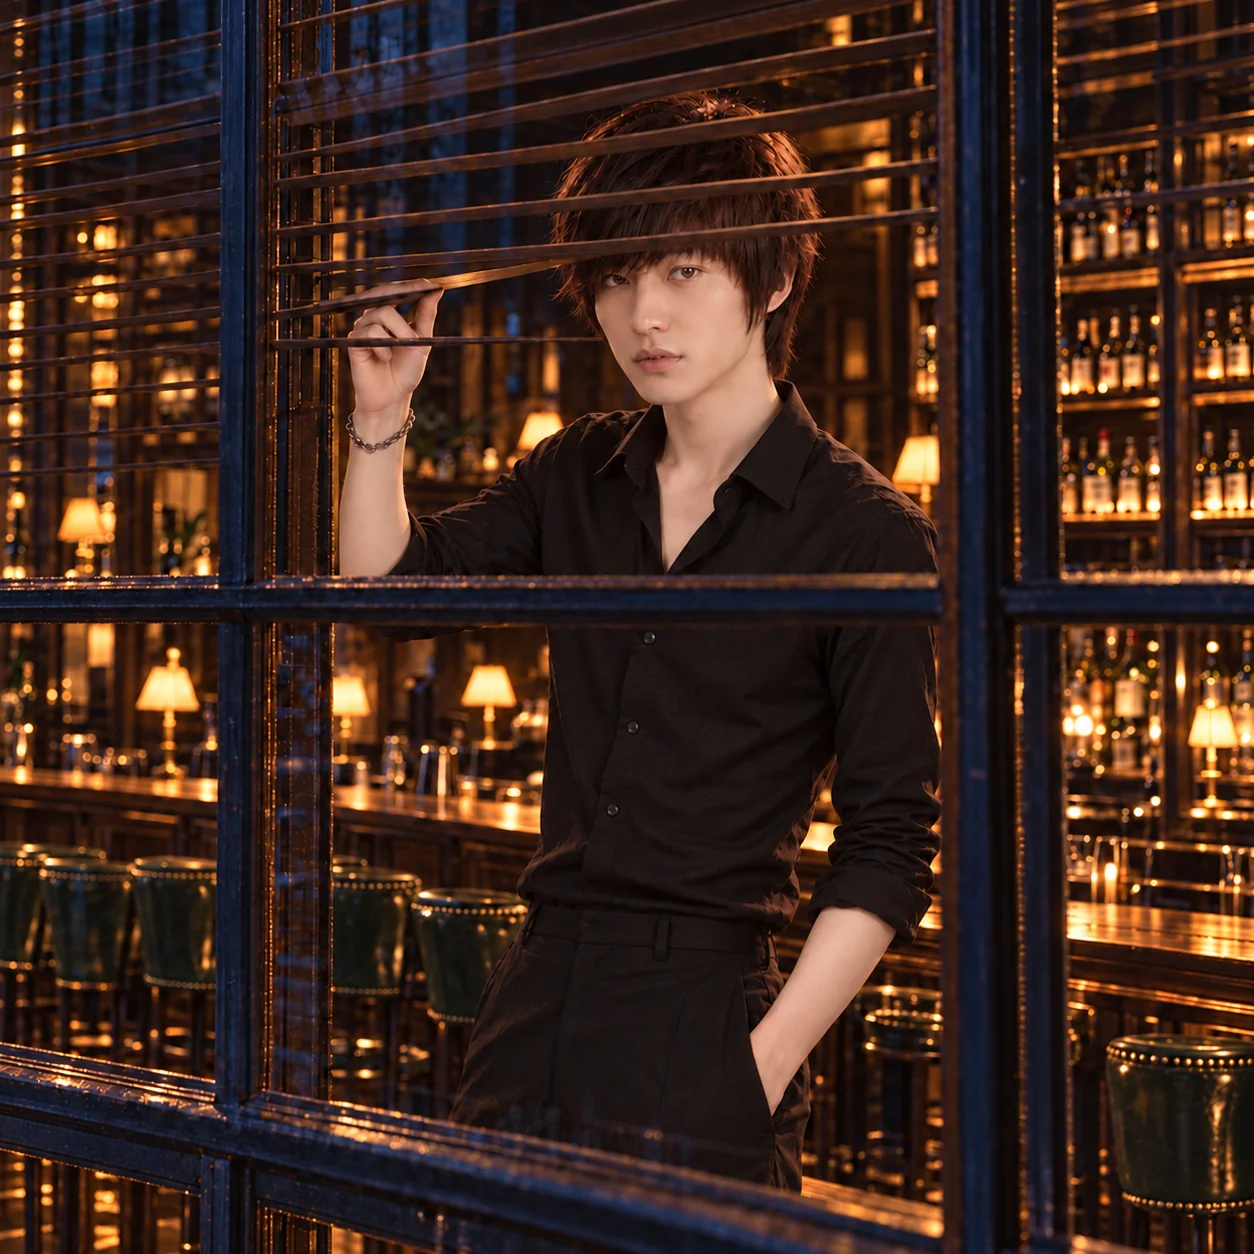
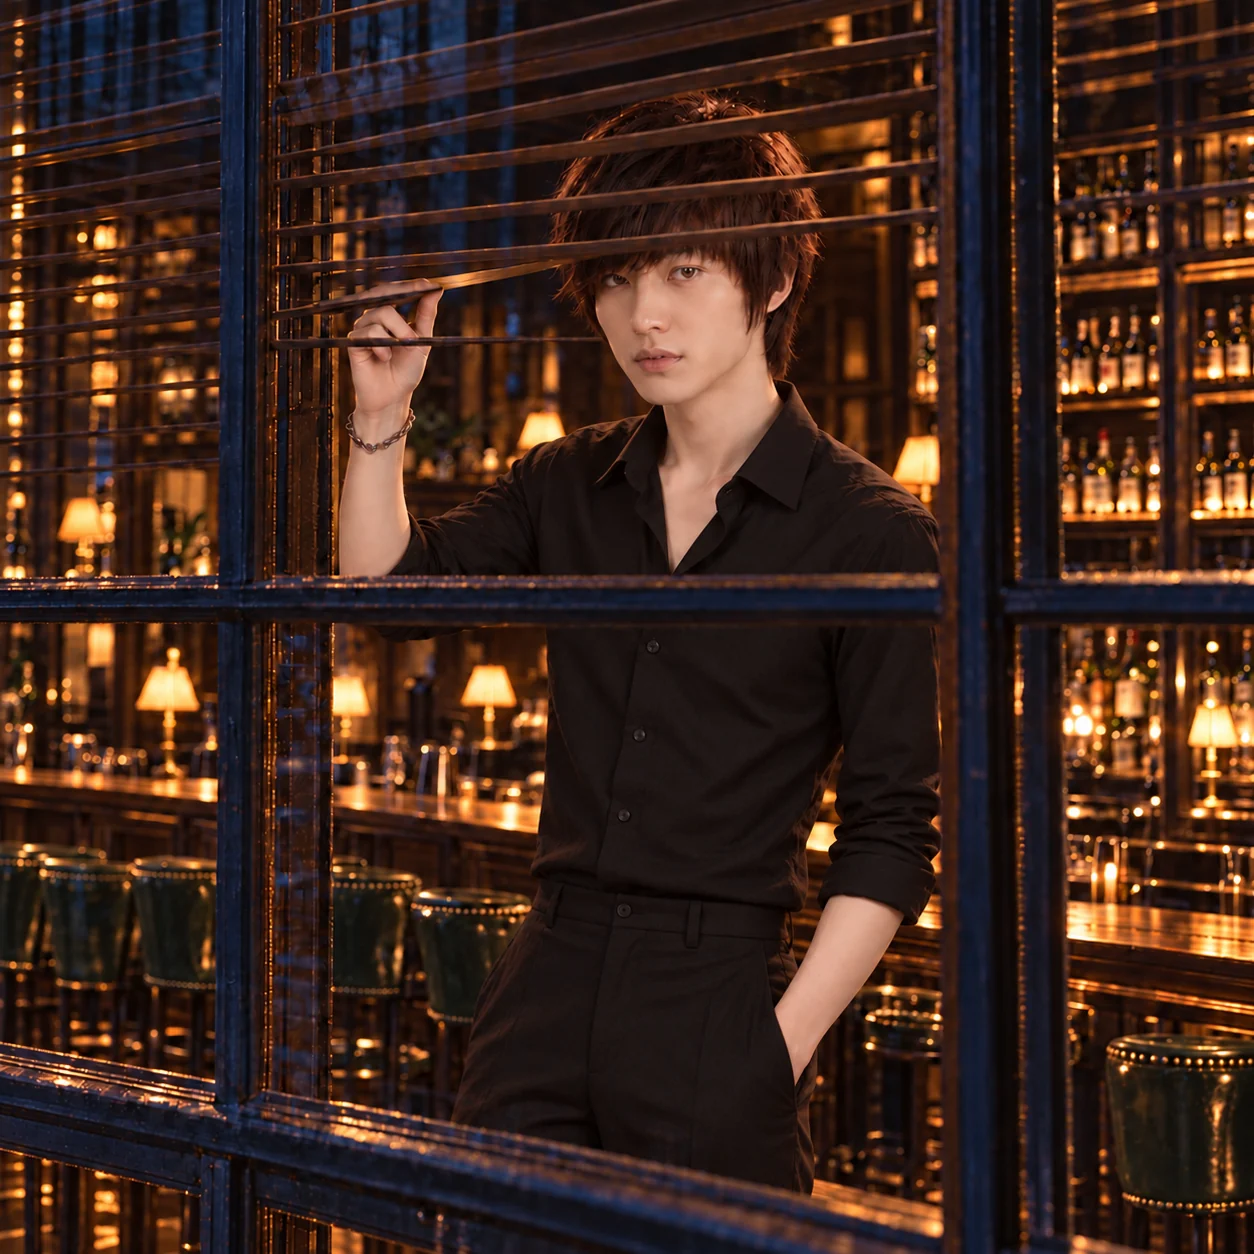
第一部第一章江澈配圖改用比例調整後的版本
Claude-Session: https://claude.ai/code/session_01GBWYe2ZCjBEsB5sU4wpFsc

diff --git a/novels/no-signboard-bar/chapter-01.html b/novels/no-signboard-bar/chapter-01.html
@@ -96,7 +96,7 @@
 <p>他的臉色，比林棠還白。</p>
 </section>
 <section class="pov pov-jiang" data-name="江澈">
-<div class="pov-opening"><h2 class="pov-title" id="pov-4"><span>敘事視角</span>江澈</h2><a class="pov-art" href="../../assets/novels/no-signboard-bar/chapter-01-jiang-che.webp?v=20261014" target="_blank" rel="noopener" aria-label="開啟江澈插圖大圖"><img src="../../assets/novels/no-signboard-bar/chapter-01-jiang-che.webp?v=20261014" class="soft-edge" alt="江澈戴著銀手鍊，在酒吧窗邊撥開百葉窗，看向對面那個正在拍他的人，身後是吧檯和酒櫃。" width="1254" height="1254" loading="lazy" decoding="async"><span class="pov-cap">我讓他拍</span></a><div class="pov-intro"><p>從巷子往上看，這裡就是舊公寓的二樓。樓梯很窄，扶手的漆掉了一半，第一次來的人推門以後，都會在門口停一下。</p>
+<div class="pov-opening"><h2 class="pov-title" id="pov-4"><span>敘事視角</span>江澈</h2><a class="pov-art" href="../../assets/novels/no-signboard-bar/chapter-01-jiang-che.webp?v=20261014b" target="_blank" rel="noopener" aria-label="開啟江澈插圖大圖"><img src="../../assets/novels/no-signboard-bar/chapter-01-jiang-che.webp?v=20261014b" class="soft-edge" alt="江澈戴著銀手鍊，在酒吧窗邊撥開百葉窗，看向對面那個正在拍他的人，身後是吧檯和酒櫃。" width="1254" height="1254" loading="lazy" decoding="async"><span class="pov-cap">我讓他拍</span></a><div class="pov-intro"><p>從巷子往上看，這裡就是舊公寓的二樓。樓梯很窄，扶手的漆掉了一半，第一次來的人推門以後，都會在門口停一下。</p>
 <p>我把整層打掉，做了一條很長的吧檯，深色木頭，從門口一路彎到最裡面。椅子是綠色皮面的，十幾張。後面的酒架做到天花板，最上層要踮腳。燈只放了幾盞矮的，光照到桌面就停了，外面那幾張沙發和小圓桌大多在暗處。地毯很舊，踩上去沒聲音。窗戶那一面掛的是木頭百葉，下雨天路燈會從縫裡透進來。</p>
 <p>唱片機在吧檯尾端，今晚放一張老爵士，聲音開得很小。店裡聞得到酒、木頭和皮革，吧檯底下還有切好的薑。客人聞不太到。</p></div></div>
 <p>我聞得到。</p>
